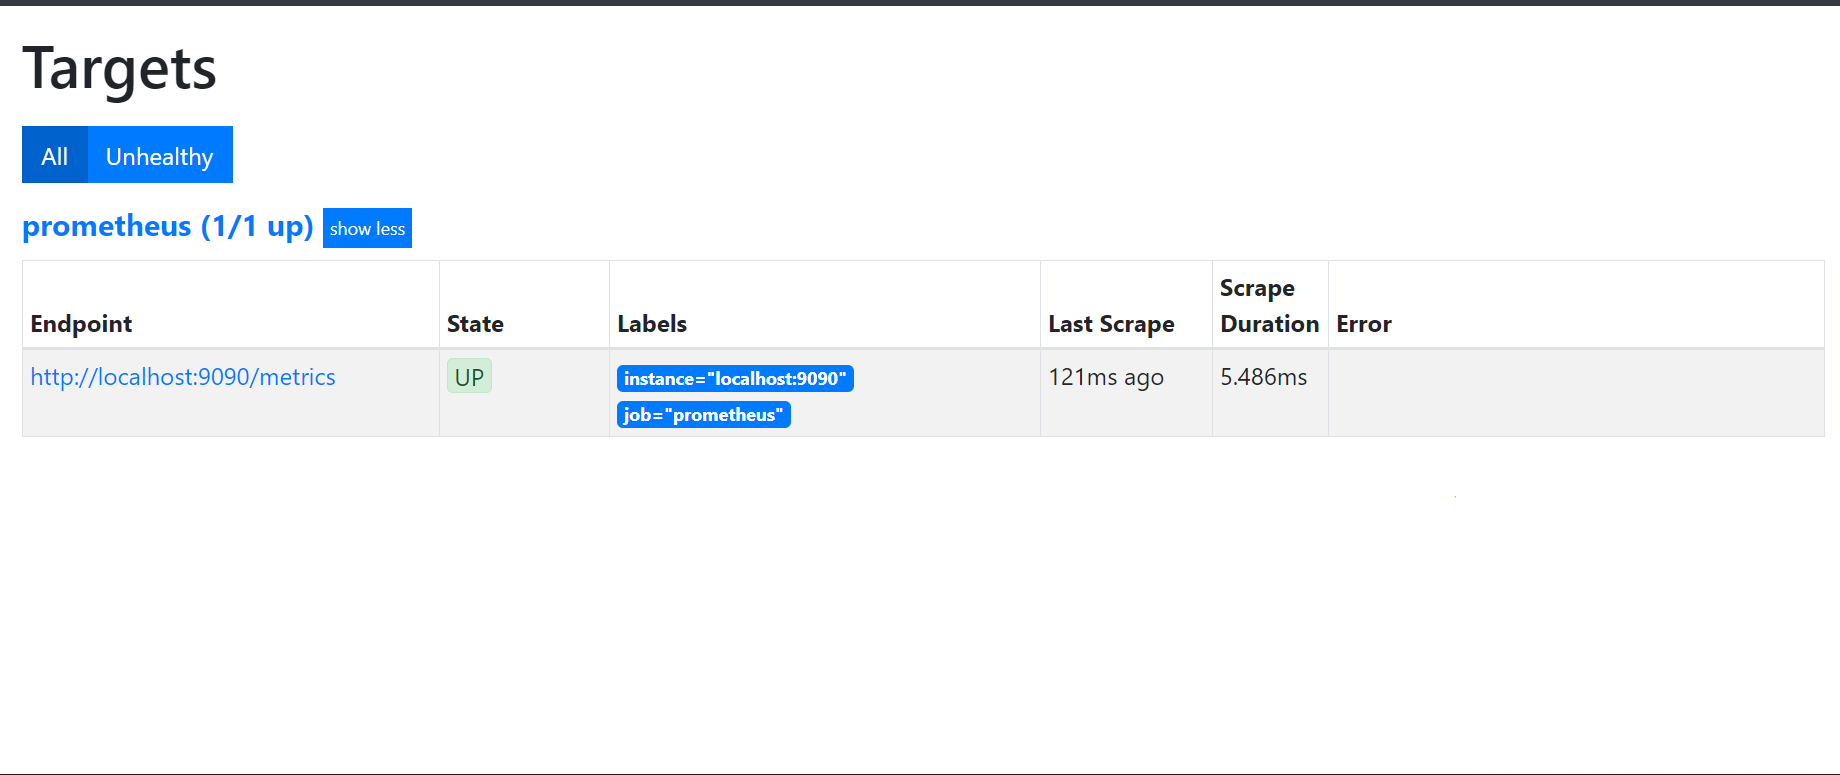
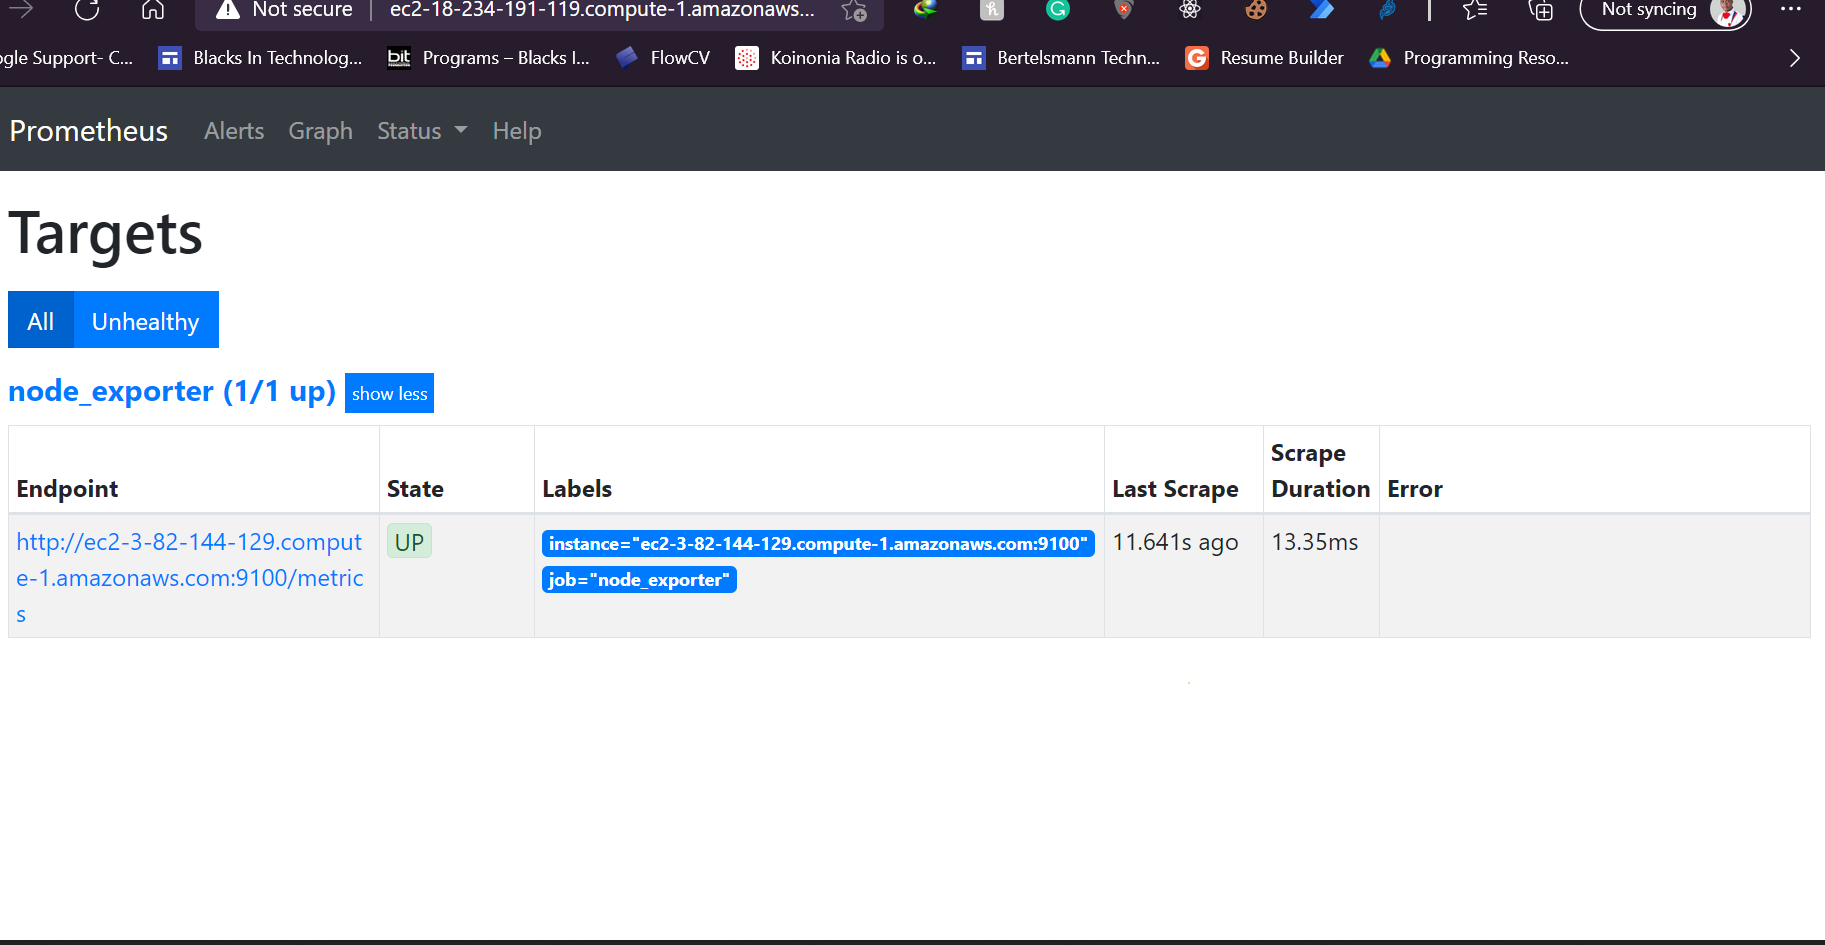
Added more screenshots

diff --git a/README.md b/README.md
@@ -27,7 +27,7 @@ For your submission, please submit the following:
   [URL02_SCREENSHOT](submission\screenshots\URL02.png)
   1. Public URL for your CloudFront distribution (aka, your blue production front-end) [URL03](submission\screenshots\URL03_SCREENSHOT.png) and [URL03-1](submission\screenshots\URL03_SCREENSHOT1.png)
   1. Public URLs to deployed application back-end in EC2 [URL04](submission\screenshots\URL04_SCREENSHOT.png)
-  1. Public URL to your Prometheus Server [URL05](http://ec2-3-88-21-75.compute-1.amazonaws.com:9090/)
+  1. Public URL to your Prometheus Server [URL05](submission\screenshots\URL05_SCREENSHOT.png), [PrometheusMonitoringItself](submission\screenshots\Prometheus-monitoring-itself.png)
 - Your screenshots in JPG or PNG format, named using the screenshot number listed in the instructions. These screenshots should be included in your code repository in the root folder.
   1. Job failed because of compile errors. [SCREENSHOT01](submission\screenshots\SCREENSHOT01.png)
   1. Job failed because of unit tests. [SCREENSHOT02](submission\screenshots\SCREENSHOT02.png)
@@ -39,7 +39,7 @@ For your submission, please submit the following:
   1. Successful promotion job. [SCREENSHOT08](submission\screenshots\SCREENSHOT08.png)
   1. Successful cleanup job. [SCREENSHOT09](submission\screenshots\SCREENSHOT09.png) and [SCREENSHOT09-1](submission\screenshots\SCREENSHOT09-1.png)
   1. Only deploy on pushed to `master` branch. [SCREENSHOT10](submission\screenshots\SCREENSHOT10.png)
-  1. Provide a screenshot of a graph of your EC2 instance including available memory, available disk space, and CPU usage. [SCREENSHOT11]
+  1. Provide a screenshot of a graph of your EC2 instance including available memory, available disk space, and CPU usage. [SCREENSHOT11](submission\screenshots\SCREENSHOT11.png), [AvailableDiskSpace](submission\screenshots\Node-Disk-Usage.png) and [CPUusage](submission\screenshots\Node-CPU-Usage.png).
   1. Provide a screenshot of an alert that was sent by Prometheus. [SCREENSHOT12]
 
 - Your presentation should be in PDF format named "presentation.pdf" and should be included in your code repository root folder. 
